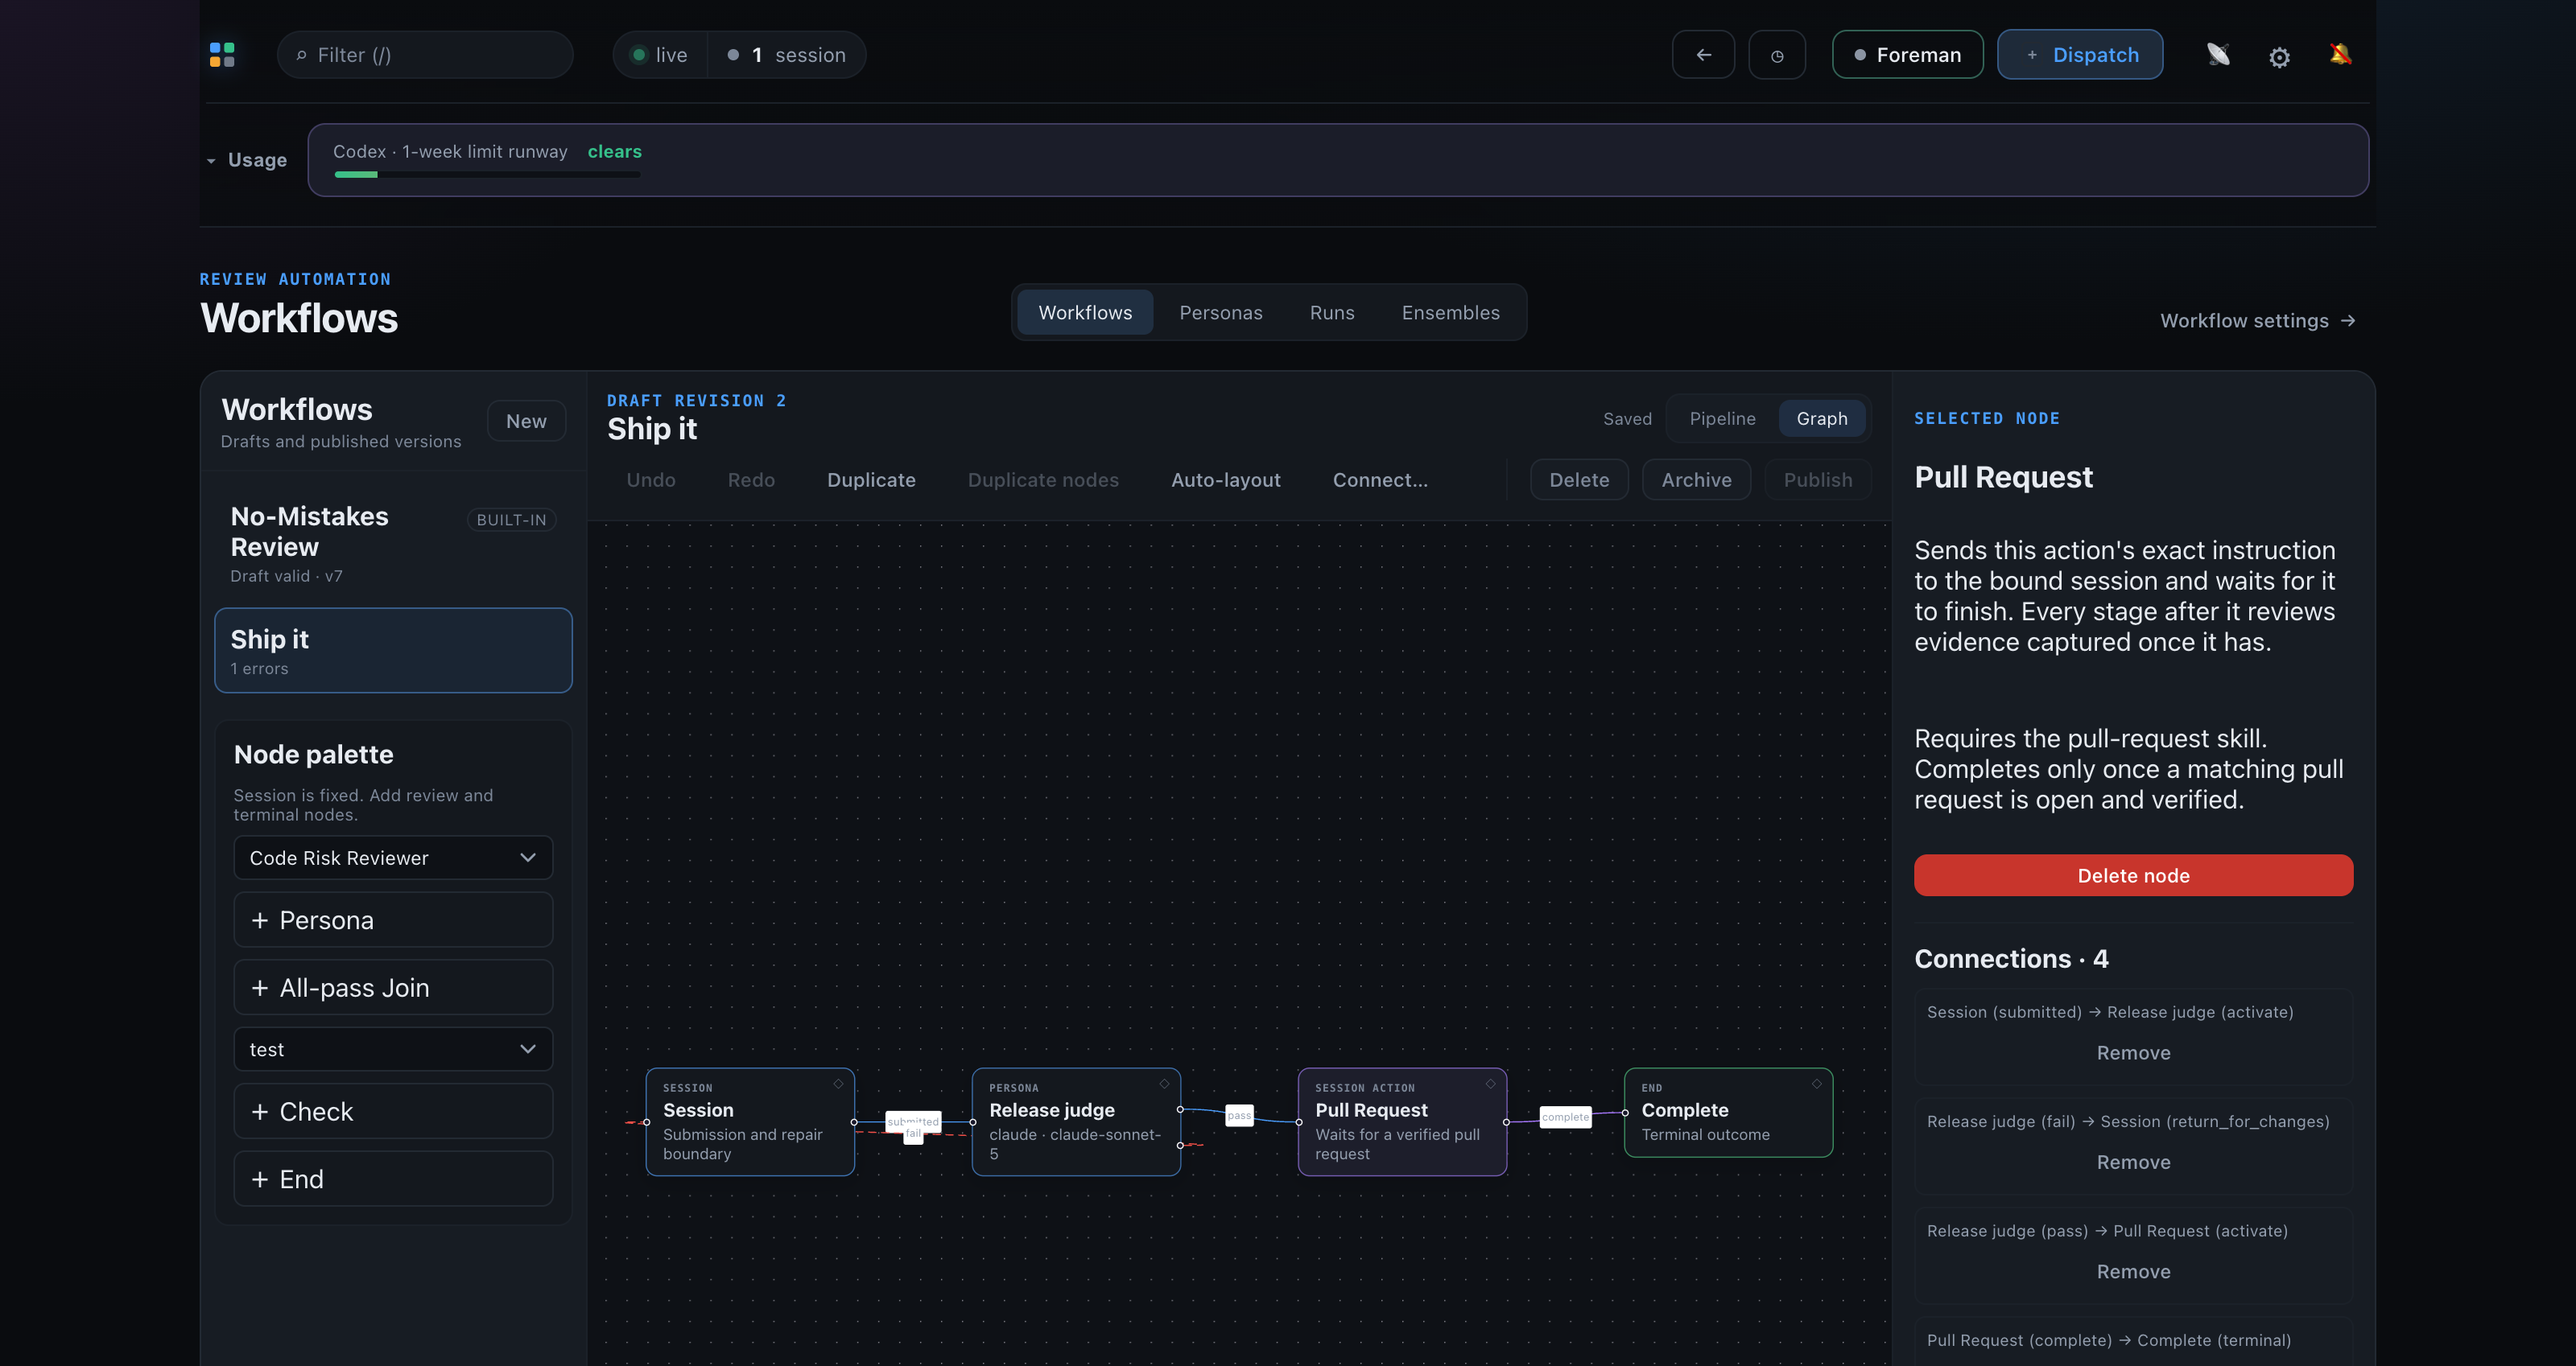
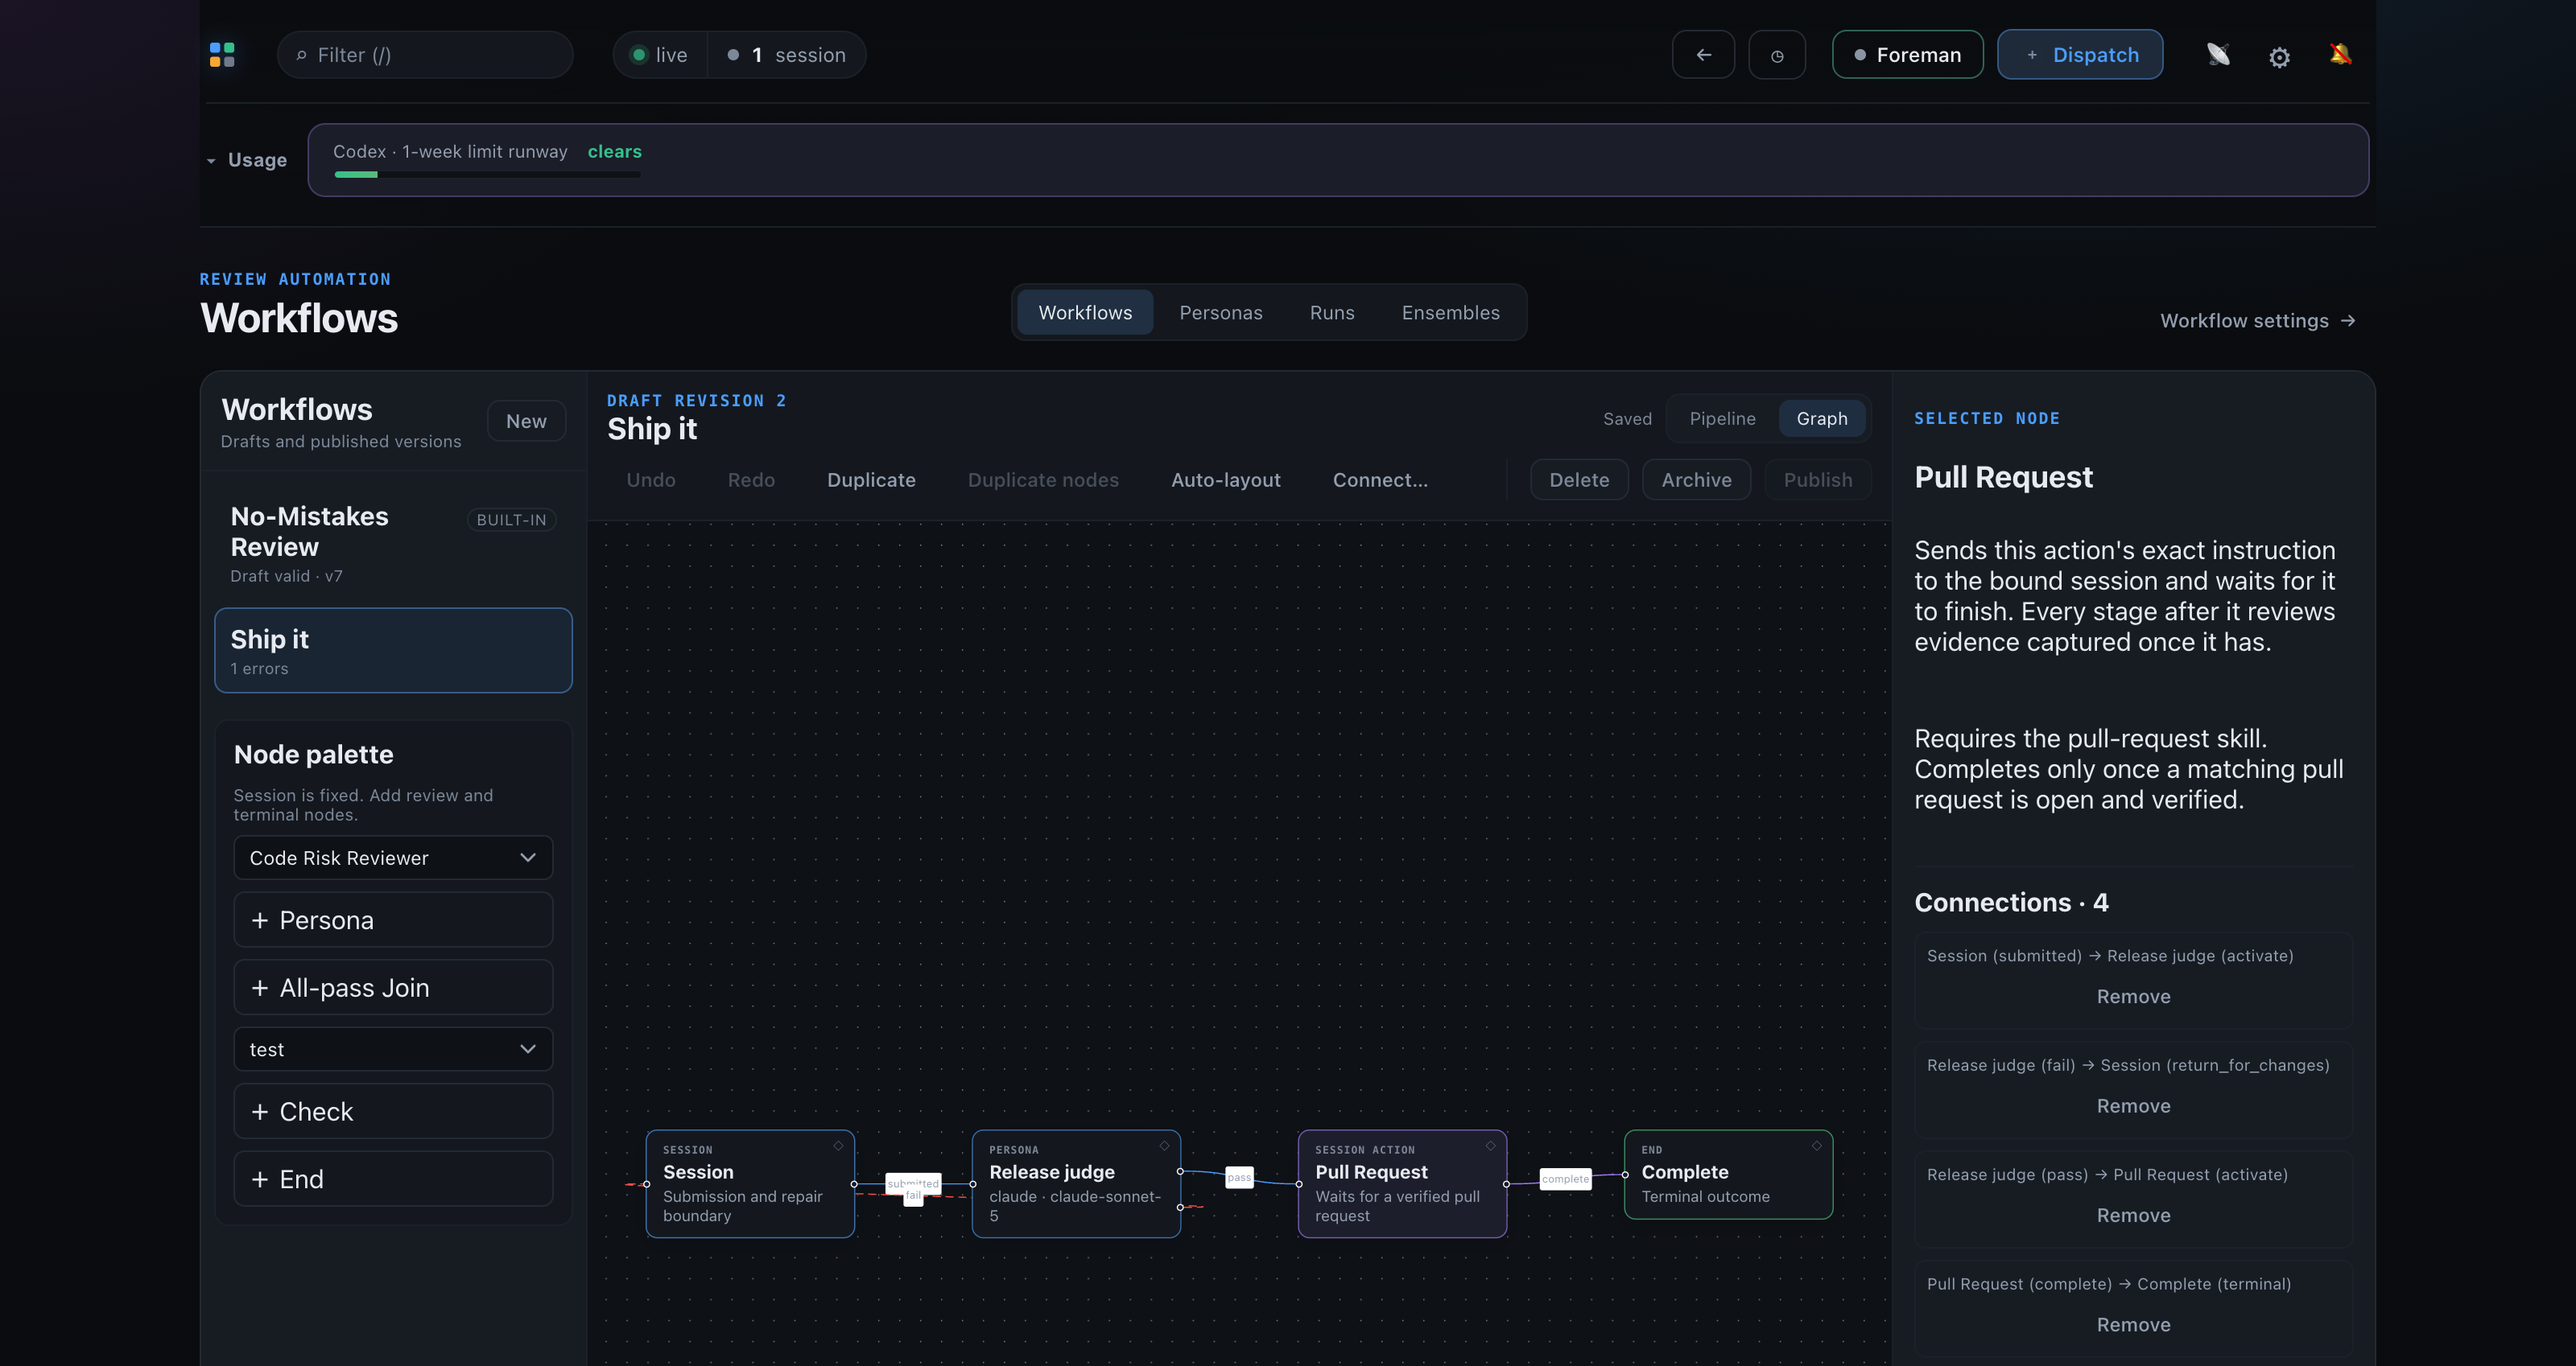
fix(workflows): no removal affordance for a session action node
Review round 3: the phase constraint names removal explicitly - "no
builder add control, drag source, editable properties, or removal/reorder
affordance" - and the Graph rail still offered Delete node. An earlier
round argued deletion was an escape hatch for a graph that arrived through
the raw draft API. That was wrong: half an authoring loop is still
authoring.

Closed in all three places an affordance withheld in one and left open in
another would still be reachable: the rail omits the button,
removeSelection refuses the node, and the canvas marks it deletable:false
so React Flow's delete key cannot reach it either.

Pinned with a control case - a Persona node still offers Delete - so the
negative assertion cannot pass by the panel losing the button entirely.
The e2e spec selects the node and asserts the rail carries none. Phase
audit record, evidence README and the Graph capture all corrected.

Changed region(s): [[0.25, 0.7803, 0.6875, 0.9052], [0.7188, 0.6243, 0.9375, 0.9364], [0.8125, 0.9676, 0.8438, 0.9988]]

diff --git a/test/session-action-render.test.ts b/test/session-action-render.test.ts
@@ -169,8 +169,38 @@ test("the Graph rail describes a selected action read-only, with no picker", () 
   assert.match(html, /Every stage after it reviews evidence captured once it has/);
   // No select element for the action: choosing one is not offered in this build.
   assert.doesNotMatch(html, /<select[^>]*>[\s\S]*Pull Request[\s\S]*<\/select>/);
+  // And no Delete node. This build offers NO affordance for an action - not add, not
+  // configure, not reorder, not remove - because half an authoring loop is still authoring.
+  assert.doesNotMatch(html, /Delete node/);
   // The refusal is stated in the same panel that would otherwise offer Publish.
   assert.match(html, /cannot be published/);
+});
+
+test("a Persona node still offers Delete, so the refusal is the action's and not the panel's", () => {
+  // The negative above would pass just as well if the rail had lost its Delete button
+  // entirely. This is the control case that makes it mean something.
+  const personaNodeId = "ffffffff-0000-4000-8000-000000000006";
+  const withPersona: WorkflowDefinition = {
+    ...workflow,
+    draft: {
+      nodes: [
+        ...graph.nodes,
+        { id: personaNodeId, kind: "persona", personaId: "p1", position: { x: 0, y: 400 } },
+      ],
+      edges: graph.edges,
+    },
+  };
+  const html = renderToStaticMarkup(createElement(WorkflowProperties, {
+    workflow: withPersona,
+    personas: [],
+    sessionActions: [action],
+    diagnostics: [],
+    selection: { kind: "node", id: personaNodeId },
+    readOnly: false,
+    onUpdate: () => {},
+    onConfirm: () => {},
+  }));
+  assert.match(html, /Delete node/);
 });
 
 test("a published version shows the exact instruction it froze", () => {

diff --git a/src/web/workflows/WorkflowProperties.tsx b/src/web/workflows/WorkflowProperties.tsx
@@ -256,7 +256,10 @@ export function WorkflowProperties({
     }
     if (selection.kind === "multi") return;
     const node = workflow.draft.nodes.find((candidate) => candidate.id === selection.id);
-    if (!node || node.kind === "session") return;
+    // Refused at the model layer too, not only by hiding the button: the canvas delete key
+    // routes here as well, and an affordance withheld in one place and left open in the
+    // other is the same affordance.
+    if (!node || node.kind === "session" || node.kind === "session_action") return;
     const edgeCount = workflow.draft.edges.filter((edge) =>
       edge.source === selection.id || edge.target === selection.id).length;
     onConfirm({
@@ -346,7 +349,12 @@ export function WorkflowProperties({
               </p>
             </>
           )}
-          {!readOnly && selectedNode.kind !== "session" && (
+          {/* Session is excluded because a graph has exactly one. A session action is
+              excluded because this build offers NO affordance for one at all - no way to add
+              it, configure it, reorder it or remove it. Half an authoring loop is still
+              authoring, and the node can only have arrived through the raw draft API, which
+              is also where it can be taken back out. */}
+          {!readOnly && selectedNode.kind !== "session" && selectedNode.kind !== "session_action" && (
             <Tooltip label="Remove this node and every route touching it">
               <button className="btn btn-danger" onClick={removeSelection}>Delete node</button>
             </Tooltip>

diff --git a/e2e/specs/workflow-session-action.spec.ts b/e2e/specs/workflow-session-action.spec.ts
@@ -156,6 +156,15 @@ test("the Graph draws the node with one complete port, and the daemon refuses to
   await expect(node.getByLabel("Pass output")).toHaveCount(0);
   await expect(node.getByLabel("Activate input")).toHaveCount(1);
 
+  // Selecting it opens a read-only rail with NO affordance for the node: nothing to
+  // configure it with, and no Delete to remove it. Half an authoring loop is still
+  // authoring, and this node can only have arrived through the raw draft API.
+  await node.click();
+  const rail = dashboard.getByRole("complementary", { name: "Workflow properties and validation" });
+  await expect(rail).toContainText("Pull Request");
+  await expect(rail).toContainText("Requires the pull-request skill");
+  await expect(rail.getByRole("button", { name: "Delete node" })).toHaveCount(0);
+
   // The rail names the route by its real port rather than folding it into pass.
   await expect(dashboard.getByRole("region", { name: "Workflow connections" }))
     .toContainText("Pull Request (complete) → Complete (terminal)");

diff --git a/src/web/workflows/WorkflowCanvas.tsx b/src/web/workflows/WorkflowCanvas.tsx
@@ -235,7 +235,9 @@ function canvasNodes(
       id: node.id,
       type: node.kind,
       position: node.position,
-      deletable: !readOnly && node.kind !== "session",
+      // Session has exactly one instance; a session action has no affordance in this build,
+      // and React Flow's own delete key is one of them.
+      deletable: !readOnly && node.kind !== "session" && node.kind !== "session_action",
       draggable: !readOnly,
       selectable: true,
       focusable: node.id === focusNodeId,

diff --git a/docs/plans/session-action-workflow-stages/phase-1-catalog-and-graph-foundation.md b/docs/plans/session-action-workflow-stages/phase-1-catalog-and-graph-foundation.md
@@ -421,10 +421,16 @@ Reconciled after implementation:
 - The generator was split into `scripts/builtin-markdown.ts`, shared by `npm run personas` and the
   new `npm run session-actions`. `npm run personas` writes byte-identical output, pinned by its
   existing drift test.
-- Graph view keeps `Delete node` for an action, and the Pipeline does not. Deletion is the escape
-  hatch for a graph that arrived through the raw API; creation and configuration are offered
-  nowhere, which is the property that matters - `duplicateNodes` refuses an action for the same
-  reason, since duplicating one is an add control by another name.
+- NO affordance for an action node is offered anywhere in the browser: not add, not configure,
+  not reorder, not remove. An earlier attempt kept `Delete node` in Graph view on the argument
+  that deletion is an escape hatch for a graph that arrived through the raw draft API; review
+  rejected that, correctly - this phase's constraint names removal explicitly, and half an
+  authoring loop is still authoring. The refusal is enforced in three places, because an
+  affordance withheld in one and left open in another is the same affordance: the rail omits
+  the button, `removeSelection` refuses the node, and the canvas marks it `deletable: false`
+  so React Flow's delete key cannot reach it either. `duplicateNodes` refuses one for the
+  related reason - duplicating is an add control by another name. A graph that arrived through
+  the raw API leaves the same way it came, or with the workflow.
 - Driving the real builder found two dead controls the unit tests did not: an "Add reviewer or
   check" picker on an action stage, and a Duplicate button that lit up for a selected action and
   then did nothing. Both are fixed and pinned in `test/session-action-render.test.ts`.

diff --git a/docs/evidence/workflow-session-action/README.md b/docs/evidence/workflow-session-action/README.md
@@ -48,10 +48,11 @@ Join read "the session did the thing" as a favourable verdict. Its violet edge a
 its own, distinct from the Session node's blue - the two nodes that write to the conversation
 were indistinguishable when they shared it.
 
-The selected-node rail is read-only, with no picker: it explains what the node does, what it
-requires, and what proves it finished, and offers **Delete node** as the escape hatch for a
-graph that arrived through the raw API. The Connections list names the route by its real
-port: `Pull Request (complete) → Complete (terminal)`.
+The selected-node rail is read-only and offers **nothing** for the node - no picker to
+configure it and no **Delete node** to remove it, where a selected Persona or Check has one.
+It explains what the node does, what it requires and what proves it finished, and stops
+there. The Connections list names the route by its real port: `Pull Request (complete) →
+Complete (terminal)`.
 
 ## Reproducing
 
